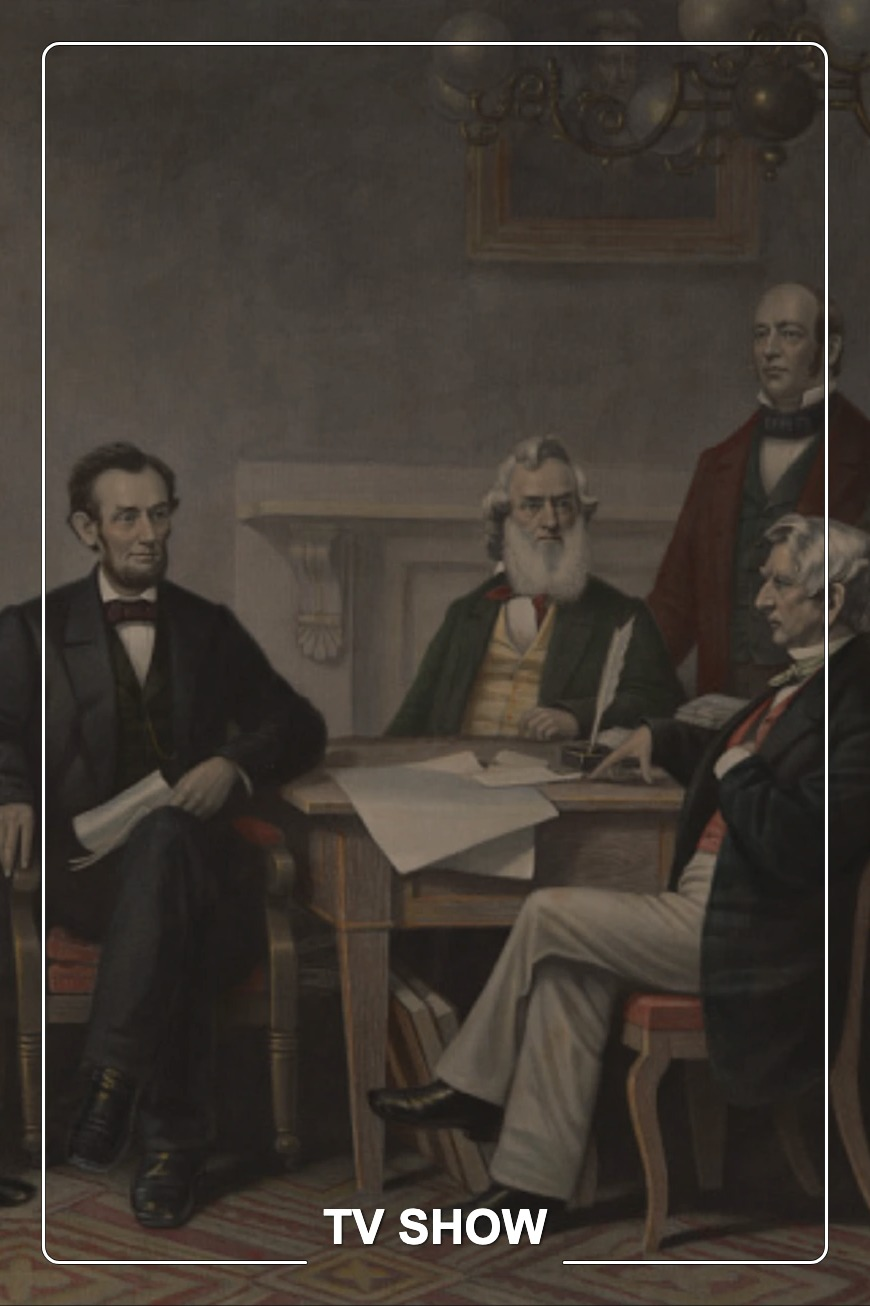
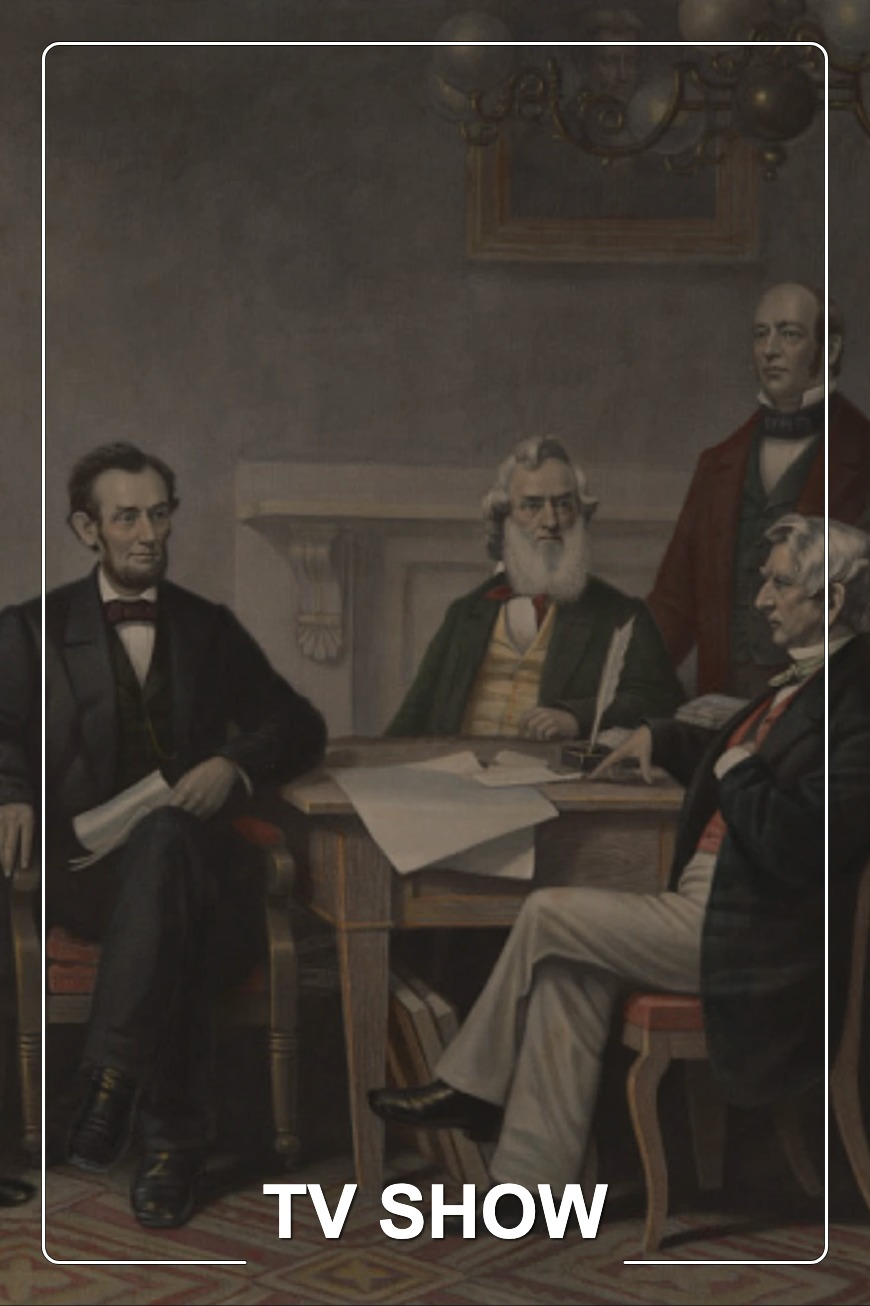
Measure portrait text against the average of the poster's two sides so it no longer reads small on a tall frame.

Changed region(s): [[0.2793, 0.8882, 0.7138, 0.9801]]

diff --git a/Jellyfin.Plugin.EpisodePosterGenerator/Services/Artwork/ArtworkService.cs b/Jellyfin.Plugin.EpisodePosterGenerator/Services/Artwork/ArtworkService.cs
@@ -29,11 +29,10 @@ namespace Jellyfin.Plugin.EpisodePosterGenerator.Services.Artwork
         public const int MaxCandidates = 10;
 
         /// <summary>
-        /// How much of a design's text size a portrait render uses. Sizes are measured from the
-        /// poster's short side, and a portrait crop has a shorter one, so the same percent reads
-        /// larger there. This keeps the two shapes in proportion without asking the user.
+        /// The most a portrait render may enlarge a design's text. A very tall crop would otherwise
+        /// scale it past what the frame can hold.
         /// </summary>
-        private const float PortraitTextScale = 0.8f;
+        private const float MaxPortraitTextScale = 1.6f;
 
         private readonly ILogger<ArtworkService> _logger;
         private readonly ILoggerFactory _loggerFactory;
@@ -104,13 +103,23 @@ namespace Jellyfin.Plugin.EpisodePosterGenerator.Services.Artwork
                 {
                     settings.PosterDimensionRatio = settings.PortraitDimensionRatio;
                 }
-                else if (!(ratio > 0f && ratio < 1f))
+                else if (ratio > 0f && ratio < 1f)
+                {
+                    portrait = ratio;
+                }
+                else
                 {
                     settings.PosterDimensionRatio = "2:3";
+                    portrait = 2f / 3f;
                 }
 
-                settings.TitleFontSize *= PortraitTextScale;
-                settings.EpisodeFontSize *= PortraitTextScale;
+                // Every size is a percent of the short side, which in portrait is the width, so the
+                // same percent draws text that looks small against a tall frame. Measuring against
+                // the average of the two sides instead gives the text the same weight in both
+                // shapes: a 2:3 poster takes about a quarter more than its width alone would give.
+                var textScale = Math.Clamp(MathF.Sqrt(1f / portrait), 1f, MaxPortraitTextScale);
+                settings.TitleFontSize *= textScale;
+                settings.EpisodeFontSize *= textScale;
                 settings.PosterFill = PosterFill.Fit;
             }
             else if (ratio < 1f)

diff --git a/Jellyfin.Plugin.EpisodePosterGenerator.Tests/ArtworkServiceTests.cs b/Jellyfin.Plugin.EpisodePosterGenerator.Tests/ArtworkServiceTests.cs
@@ -32,8 +32,9 @@ public class ArtworkServiceTests
     }
 
     /// <summary>
-    /// Text sizes come from the short edge, which in portrait is the width, so portrait scales
-    /// them down to keep both shapes in proportion. Landscape uses the sizes as set.
+    /// Text sizes come from the short side, which in portrait is the width, so a portrait render
+    /// measures them against the average of the two sides instead. A 2:3 poster therefore draws
+    /// text about a quarter larger than its width alone would give. Landscape uses the sizes as set.
     /// </summary>
     [Fact]
     public void ShapeAdjust_PortraitScalesTheText()
@@ -43,8 +44,8 @@ public class ArtworkServiceTests
         var portrait = ArtworkService.ShapeAdjust(design, ArtworkShape.Portrait);
         var landscape = ArtworkService.ShapeAdjust(design, ArtworkShape.Landscape);
 
-        Assert.Equal(8.0, portrait.TitleFontSize, 3);
-        Assert.Equal(5.6, portrait.EpisodeFontSize, 3);
+        Assert.Equal(12.247, portrait.TitleFontSize, 3);
+        Assert.Equal(8.573, portrait.EpisodeFontSize, 3);
         Assert.Equal(10.0, landscape.TitleFontSize, 3);
         Assert.Equal(10.0, design.TitleFontSize, 3);
     }

diff --git a/docs/SETTINGS.md b/docs/SETTINGS.md
@@ -25,6 +25,8 @@ Jellyfin only asks the plugin for series and season images in libraries where **
 
 Every design draws both shapes. The profile decides which one each image uses, so a single design covers a portrait series poster and a landscape thumb without being set up twice. The live preview shows both side by side.
 
+Sizes are a percent of the poster's short side. A portrait image measures them against the average of its two sides instead, so text carries the same weight on a tall poster as it does on a wide one.
+
 * **Active Design**: the design being viewed and edited. Profiles pick designs by name; deleting one sends its images to the default design. The default design cannot be renamed or deleted.
 * **New, Rename, Delete**: manage named designs.
 * **Export, Import**: save a design to JSON, or load one as a new design.
